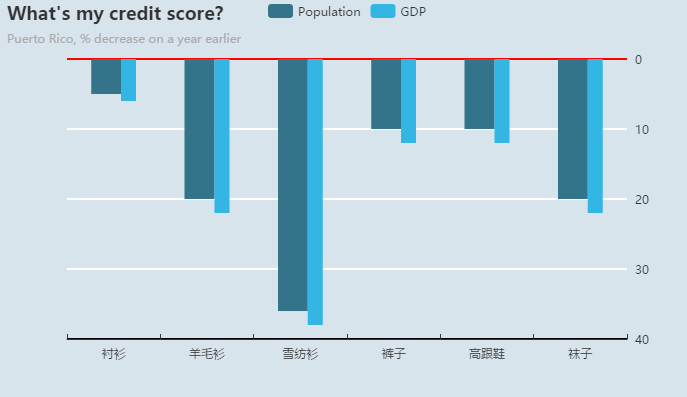
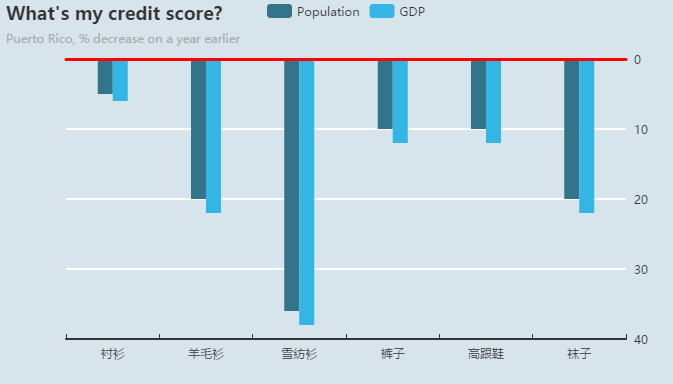
用两个x轴制作上方红线

Changed region(s): [[0.0, 0.0938, 0.9673, 0.9375], [0.0, 0.0, 0.3432, 0.0625], [0.3744, 0.0, 0.6241, 0.0625]]

diff --git a/echarts-2/task.js b/echarts-2/task.js
@@ -14,16 +14,30 @@ var option = {
 		data : ['Population', 'GDP'],
 		align : 'left'
 	},
-	xAxis : {
-		position: 'bottom',
+	xAxis : [
+	{
 		data: ["衬衫","羊毛衫","雪纺衫","裤子","高跟鞋","袜子"],
 		axisLine: {
-			onZero: false
+			show: true,
+			onZero: false,
+			lineStyle: {
+				width: 2
+			}
 		},
 		axisTick: {
 			inside: true
 		}
 	},
+	{
+		z: 10,
+	    axisLine : {                               //上面的红线
+            show : true,
+            lineStyle : {
+                color : "red",
+                width : 3
+	    	}	
+	    }	
+	}],
 	yAxis : {
 		inverse: true,
 		position: 'right',
@@ -36,7 +50,7 @@ var option = {
 		splitLine: {
 		    lineStyle: {
 		        // 使用深浅的间隔色
-		        color: ['red', 'white', 'white', 'white', 'black'],
+		        color: 'white',
 		        width: 2
 		    } 
 		}
